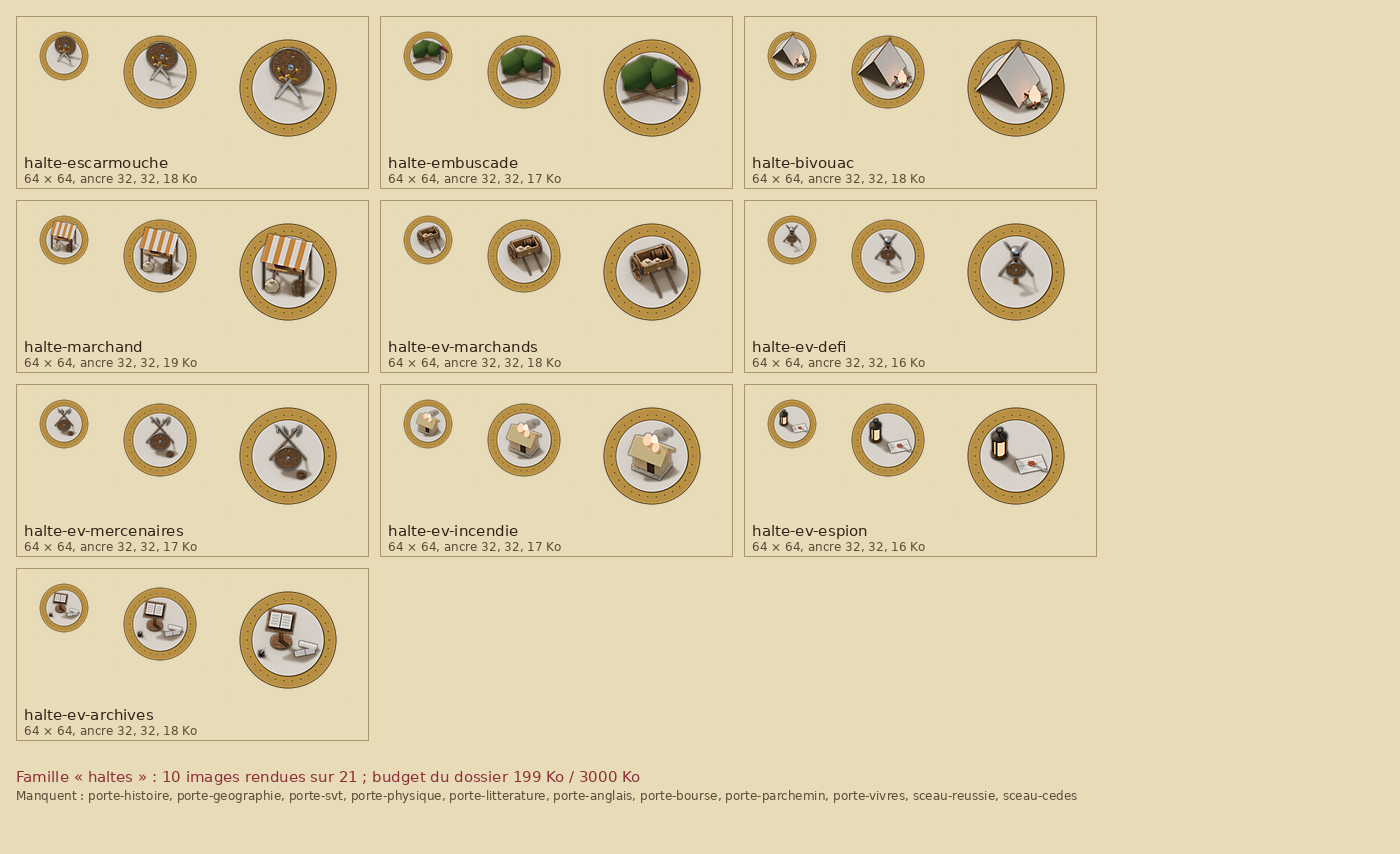
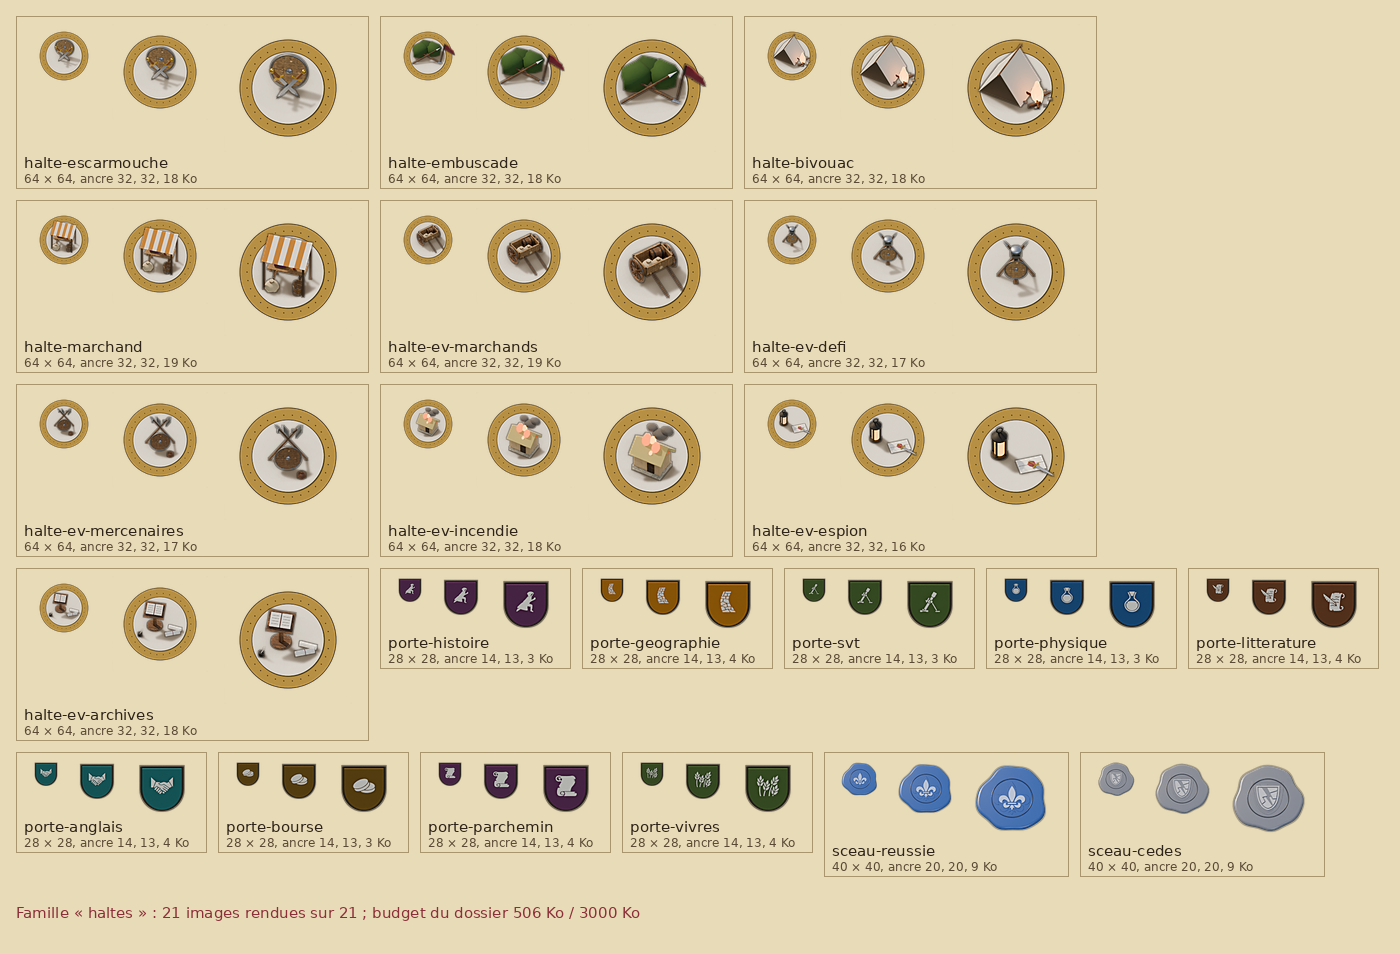
Point d'étape : travaux interrompus par la limite de crédits (rendus 3D, audits de questions)
Claude-Session: https://claude.ai/code/session_013imxrBtnjcaCcqsphPahqh

diff --git a/jeu/assets/images/expedition/images.js b/jeu/assets/images/expedition/images.js
@@ -7,6 +7,10 @@
 window.JEU = window.JEU || {};
 JEU.imagesExpedition = {
   "annee-fond": {"f": "assets/images/expedition/annee-fond.jpg", "w": 1000, "h": 104, "ax": 0, "ay": 0},
+  "cadre-page": {"f": "assets/images/expedition/cadre-page.png", "w": 240, "h": 240, "ax": 0, "ay": 0, "coupe": 60},
+  "carte-expedition": {"f": "assets/images/expedition/carte-expedition.jpg", "w": 320, "h": 190, "ax": 0, "ay": 0},
+  "compagnie-sac-plein": {"f": "assets/images/expedition/compagnie-sac-plein.png", "w": 24, "h": 28, "ax": 12, "ay": 26},
+  "compagnie-sac-vide": {"f": "assets/images/expedition/compagnie-sac-vide.png", "w": 24, "h": 28, "ax": 12, "ay": 26},
   "halte-bivouac": {"f": "assets/images/expedition/halte-bivouac.png", "w": 64, "h": 64, "ax": 32, "ay": 32},
   "halte-brume": {"f": "assets/images/expedition/halte-brume.png", "w": 64, "h": 64, "ax": 32, "ay": 32},
   "halte-embuscade": {"f": "assets/images/expedition/halte-embuscade.png", "w": 64, "h": 64, "ax": 32, "ay": 32},
@@ -18,5 +22,16 @@ JEU.imagesExpedition = {
   "halte-ev-marchands": {"f": "assets/images/expedition/halte-ev-marchands.png", "w": 64, "h": 64, "ax": 32, "ay": 32},
   "halte-ev-mercenaires": {"f": "assets/images/expedition/halte-ev-mercenaires.png", "w": 64, "h": 64, "ax": 32, "ay": 32},
   "halte-marchand": {"f": "assets/images/expedition/halte-marchand.png", "w": 64, "h": 64, "ax": 32, "ay": 32},
-  "route-fond": {"f": "assets/images/expedition/route-fond.jpg", "w": 1000, "h": 320, "ax": 0, "ay": 0}
+  "porte-anglais": {"f": "assets/images/expedition/porte-anglais.png", "w": 28, "h": 28, "ax": 14, "ay": 13},
+  "porte-bourse": {"f": "assets/images/expedition/porte-bourse.png", "w": 28, "h": 28, "ax": 14, "ay": 13},
+  "porte-geographie": {"f": "assets/images/expedition/porte-geographie.png", "w": 28, "h": 28, "ax": 14, "ay": 13},
+  "porte-histoire": {"f": "assets/images/expedition/porte-histoire.png", "w": 28, "h": 28, "ax": 14, "ay": 13},
+  "porte-litterature": {"f": "assets/images/expedition/porte-litterature.png", "w": 28, "h": 28, "ax": 14, "ay": 13},
+  "porte-parchemin": {"f": "assets/images/expedition/porte-parchemin.png", "w": 28, "h": 28, "ax": 14, "ay": 13},
+  "porte-physique": {"f": "assets/images/expedition/porte-physique.png", "w": 28, "h": 28, "ax": 14, "ay": 13},
+  "porte-svt": {"f": "assets/images/expedition/porte-svt.png", "w": 28, "h": 28, "ax": 14, "ay": 13},
+  "porte-vivres": {"f": "assets/images/expedition/porte-vivres.png", "w": 28, "h": 28, "ax": 14, "ay": 13},
+  "route-fond": {"f": "assets/images/expedition/route-fond.jpg", "w": 1000, "h": 320, "ax": 0, "ay": 0},
+  "sceau-cedes": {"f": "assets/images/expedition/sceau-cedes.png", "w": 40, "h": 40, "ax": 20, "ay": 20},
+  "sceau-reussie": {"f": "assets/images/expedition/sceau-reussie.png", "w": 40, "h": 40, "ax": 20, "ay": 20}
 };

diff --git a/atelier/outils/rendu-3d/expedition_fonds.py b/atelier/outils/rendu-3d/expedition_fonds.py
@@ -17,7 +17,8 @@ Quatre images, rendues avec le module commun (même soleil du nord-ouest, mêmes
     charrette à l'arrêt, des houppiers ; vue de trois quarts à 40° comme les lieux de la carte, pas de ciel, aucun
     personnage.
 Lancer : cd /home/user/Test && python3 atelier/outils/rendu-3d/expedition_fonds.py [route|annee|cadre|carte|planche]
-  [--essai] (rendus réduits dans le cache, rien d'écrit dans jeu/).
+  [--essai] (rendus réduits dans le cache, rien d'écrit dans jeu/) [--sans-rendu] (reprend les rendus bruts du cache
+  pour refaire seulement le post-traitement et l'enregistrement).
 La planche atelier/captures/planche-expedition-fonds.png pose sur chaque fond une maquette de ce que l'écran dessine
 dessus (lettrines, chemins, médaillons, cases, fenêtre à cadre) : on la regarde avant de livrer.
 """
@@ -39,6 +40,7 @@ from PIL import Image, ImageDraw, ImageFilter  # noqa: E402
 FAMILLE = "fonds"
 IDS = ("route-fond", "annee-fond", "cadre-page", "carte-expedition")
 ESSAI = False
+SANS_RENDU = False           # --sans-rendu : reprend les rendus bruts du cache (_rendu/) pour refaire le post-traitement
 
 # Feuille de route : 100 × 32 m vus de dessus à 20 px/m. Le rendu (soleil, ciel, AgX) d'un parchemin clair retombe vers
 # #d1c8bc, gris et sombre à côté du parchemin du jeu, et l'exposition n'y change rien (AgX compresse les hautes lumières :
@@ -79,8 +81,20 @@ def feuille(nom, largeur, hauteur, mat, amplitude=ROUTE_ONDULATION, echelle_m=RO
     return C.objet_maillage(nom, bm, mat, lisse=True)
 
 
+def rendu_cache(nom):
+    """Le rendu brut en cache (atelier/sources-3d/_cache/_rendu/<nom>.png), ou None."""
+    chemin = os.path.join(C.CACHE, "_rendu", nom + ".png")
+    if SANS_RENDU and os.path.exists(chemin):
+        journal("reprise du rendu en cache " + os.path.relpath(chemin, C.RACINE))
+        return Image.open(chemin).convert("RGBA")
+    return None
+
+
 def rendre_feuille_route(W, H, echantillons=48):
     """Rendu RGB de la feuille de route (W × H px), sans patine."""
+    brut = rendu_cache("route-fond")
+    if brut is not None and brut.size == (W, H):
+        return brut.convert("RGB")
     E.scene_dessus(ROUTE_M[0], ROUTE_M[1], W, H, echantillons=echantillons, exposition=-0.1)
     feuille("feuille", ROUTE_M[0], ROUTE_M[1], E.mat_parchemin("parchemin_route", ROUTE_TEINTE, grain=0.6, echelle=6.0))
     return E.rendre_opaque("route-fond")
@@ -140,7 +154,7 @@ def cadre_objets():
     """La feuille de 24 × 24 m et son cadre : filet d'encre, bande d'or bombée (0,5 m), filet d'encre, le milieu de la
     bande à 3 m du bord ; une perle d'or à chaque angle de la bande."""
     L = CADRE_M
-    objets = [feuille("feuille", L, L, E.mat_parchemin("parchemin_cadre", "#efe3c6", grain=0.3, echelle=5.0),
+    objets = [feuille("feuille", L, L, E.mat_parchemin("parchemin_cadre", "#efe3c6", grain=0.45, echelle=5.0),
                       amplitude=0.03, echelle_m=4.0, graine=23)]
     encre, or_ = E.mat_encre("encre_cadre"), E.mat_or("or_cadre", "#c8942c", rugosite=0.4, metal=0.8)
     r = CADRE_RETRAIT
@@ -198,6 +212,21 @@ def recaler_hors_cadre(img, cible, contraste=1.15):
     return Image.fromarray(np.clip(a * (c / np.maximum(moy, 1.0)), 0, 246).astype(np.uint8))
 
 
+def palette_coins(img, couleurs=255):
+    """PNG à palette (256 couleurs par coupe médiane, tramé) avec un index réservé aux coins transparents : la mise à
+    256 couleurs du module commun (octree) aplatit le dégradé des bords du cadre en paliers ; la coupe médiane le garde.
+    Le fichier passe sous le seuil de quantification de sauver, qui l'écrit tel quel."""
+    rgb, a = img.convert("RGB"), np.array(img.split()[3])
+    p = rgb.quantize(couleurs, method=Image.Quantize.MEDIANCUT, dither=Image.Dither.FLOYDSTEINBERG)
+    pal = (p.getpalette() + [0] * 768)[:765] + [0, 0, 0]
+    idx = np.array(p, dtype=np.uint8)
+    idx[a < 128] = 255
+    q = Image.fromarray(idx, "P")
+    q.putpalette(pal)
+    q.info["transparency"] = bytes([255] * 255 + [0])
+    return q
+
+
 def masque_coins(taille, rayon):
     """Alpha d'une feuille aux coins arrondis (rayon en px), bord net."""
     m = Image.new("L", (taille, taille), 0)
@@ -209,9 +238,11 @@ def cadre_page():
     """cadre-page.png : la feuille rendue de dessus à 2 ×, réduite, patinée, le centre rendu raccordable, coins arrondis."""
     px = 480
     surech = 1 if ESSAI else 2
-    E.scene_dessus(CADRE_M, CADRE_M, px * surech, px * surech, echantillons=32 if ESSAI else 64, exposition=-0.1, appoint=0.5)
-    cadre_objets()
-    img = C.rendre(os.path.join(C.CACHE, "_rendu", "cadre-page.png"))
+    img = rendu_cache("cadre-page")
+    if img is None or img.size != (px * surech, px * surech):
+        E.scene_dessus(CADRE_M, CADRE_M, px * surech, px * surech, echantillons=32 if ESSAI else 64, exposition=-0.1, appoint=0.5)
+        cadre_objets()
+        img = C.rendre(os.path.join(C.CACHE, "_rendu", "cadre-page.png"))
     img = C._reduire(img, surech).convert("RGB")
     img = img.filter(ImageFilter.UnsharpMask(radius=1.0, percent=35, threshold=1))
     img = recaler_hors_cadre(img, "#f2e8cf")
@@ -225,7 +256,7 @@ def cadre_page():
     if ESSAI:
         img.save(os.path.join(C.CACHE, "essai-cadre-page.png"))
         return
-    E.sauver("cadre-page", img, extra={"coupe": CADRE_COUPE})
+    E.sauver("cadre-page", palette_coins(img), extra={"coupe": CADRE_COUPE})
 
 
 # ---------------------------------------------------------------- la carte « Partir en expédition »
@@ -363,6 +394,20 @@ def carte_expedition():
     """carte-expedition.jpg : la route vers le bourg, de trois quarts à 40°, sans ciel."""
     w, h, ppm, ancre_bas = CARTE
     surech = 1 if ESSAI else E.SURECH
+    img = rendu_cache("carte-expedition")
+    if img is None or img.size != (w * C.ECHELLE * surech, h * C.ECHELLE * surech):
+        img = rendre_carte(w, h, ppm, ancre_bas, surech)
+    img = C._reduire(img, surech).convert("RGB")
+    img = img.filter(ImageFilter.UnsharpMask(radius=1.2, percent=45, threshold=1))
+    C.controle_blancs(img, "carte-expedition")
+    if ESSAI:
+        img.save(os.path.join(C.CACHE, "essai-carte-expedition.jpg"), quality=86)
+        return
+    E.sauver("carte-expedition", img, max_ko=160)
+
+
+def rendre_carte(w, h, ppm, ancre_bas, surech):
+    """La scène de la carte : sol, bourg, bornes, bannière, charrette, arbres ; rendu brut RGBA (surech ×)."""
     E.scene_scene(w, h, ppm, ancre_bas, surech=surech, sol=False)
     k = C.ECHELLE * surech
     C.reglages_rendu(w * k, h * k, echantillons=32 if ESSAI else 48, transparent=False, exposition=-0.1)
@@ -381,14 +426,7 @@ def carte_expedition():
     for nom, loc, r in (("arbre1", (-13.0, 6.5, 0), 3.2), ("arbre2", (12.5, 11.0, 0), 2.8), ("arbre3", (-9.5, 24.0, 0), 2.6),
                         ("arbre4", (16.0, 30.0, 0), 2.4), ("arbre5", (-18.0, 36.0, 0), 2.9)):
         arbre(nom, feuillus, loc, r, tronc)
-    img = C.rendre(os.path.join(C.CACHE, "_rendu", "carte-expedition.png"))
-    img = C._reduire(img, surech).convert("RGB")
-    img = img.filter(ImageFilter.UnsharpMask(radius=1.2, percent=45, threshold=1))
-    C.controle_blancs(img, "carte-expedition")
-    if ESSAI:
-        img.save(os.path.join(C.CACHE, "essai-carte-expedition.jpg"), quality=86)
-        return
-    E.sauver("carte-expedition", img, max_ko=160)
+    return C.rendre(os.path.join(C.CACHE, "_rendu", "carte-expedition.png"))
 
 
 # ---------------------------------------------------------------- planche de contrôle
@@ -410,7 +448,7 @@ def _pointille(d, a, b, pas=9, trait=2, fill=ENCRE, largeur=2):
 def maquette_route(fond):
     """Pose sur le fond (à l'échelle logique, 1000 × 320) ce que carteSVG dessine : lettrines, dates, filets, chemins,
     médaillons (dont halte-brume rendu), gardien, bannière « Cette semaine », voile de brume."""
-    im = fond.convert("RGBA")
+    im = fond.convert("RGB")
     d = ImageDraw.Draw(im, "RGBA")
     gras, texte, petit = E._police(32), E._police(15), E._police(13)
     BANDE = 320
@@ -458,8 +496,7 @@ def maquette_route(fond):
         bx = 20 + i * BANDE
         for x, y in ((bx + 80, 130), (bx + 80, 230), (bx + 170, 180), (bx + 260, 130), (bx + 260, 230)):
             if brume:
-                im.alpha_composite(brume, (x - 32, y - 32))
-                d = ImageDraw.Draw(im, "RGBA")
+                im.paste(brume, (x - 32, y - 32), brume)
             else:
                 d.ellipse((x - 24, y - 24, x + 24, y + 24), fill=OR, outline=ENCRE, width=2)
     # bannière « Cette semaine » de la troisième bande
@@ -467,12 +504,12 @@ def maquette_route(fond):
     d.line((bx, 8, bx, 46), fill=ENCRE, width=2)
     d.polygon(((bx - 2, 10), (bx - 136, 10), (bx - 128, 19), (bx - 136, 28), (bx - 2, 28)), fill=RUBRIQUE, outline=ENCRE)
     d.text((bx - 126, 11), "Cette semaine", fill=(255, 243, 208), font=texte)
-    return im
+    return im.convert("RGBA")
 
 
 def maquette_annee(fond):
     """Les cases du parchemin de l'année (27 × 34, à partir de x = 20), la frontière, le repère du relais."""
-    im = fond.convert("RGBA")
+    im = fond.convert("RGB")
     d = ImageDraw.Draw(im, "RGBA")
     police = E._police(15)
     for i in range(34):
@@ -488,7 +525,7 @@ def maquette_annee(fond):
     d.text((x + 6, 84), "Frontière", fill=RUBRIQUE, font=police)
     d.polygon(((x - 15, 16), (x - 130, 16), (x - 122, 24), (x - 130, 32), (x - 15, 32)), fill=RUBRIQUE, outline=ENCRE)
     d.text((x - 122, 17), "Cette semaine", fill=(255, 243, 208), font=police)
-    return im
+    return im.convert("RGBA")
 
 
 def maquette_fenetre(cadre, largeur, hauteur, coupe_px=120, bord=60):
@@ -575,7 +612,7 @@ def planche_fonds():
         cx, cy = e["w"] // 2, e["h"] + 2
         d.ellipse((cx - 32, cy - 32, cx + 32, cy + 32), fill=(61, 33, 22), outline=OR, width=3)
         d.rectangle((0, 0, e["w"] - 1, e["h"] - 1), outline=ENCRE, width=2)
-        cellules.append(("carte-expedition, à l'échelle logique (320 × 190) avec le médaillon de la carte", carte, legende("carte-expedition", e)))
+        cellules.append(("carte-expedition à 320 × 190, avec le médaillon", carte, legende("carte-expedition", e)))
         cellules.append(("carte-expedition, le fichier (640 × 380)", im, ""))
     absents = [k for k in IDS if k not in man or not os.path.exists(os.path.join(C.RACINE, "jeu", man[k]["f"]))]
     # mise en page : une cellule par ligne, deux côte à côte quand elles tiennent
@@ -605,8 +642,9 @@ def planche_fonds():
 
 
 def main(args):
-    global ESSAI
+    global ESSAI, SANS_RENDU
     ESSAI = "--essai" in args
+    SANS_RENDU = "--sans-rendu" in args
     quoi = [a for a in args if not a.startswith("--")] or ["tout"]
     tout = "tout" in quoi
     if tout or "route" in quoi or "annee" in quoi or "route-fond" in quoi or "annee-fond" in quoi:
@@ -618,6 +656,8 @@ def main(args):
     if not ESSAI:
         planche_fonds()
         E.verifier_budget()
+    elif "planche" in quoi:
+        planche_fonds()
 
 
 if __name__ == "__main__":

diff --git a/atelier/outils/rendu-3d/expedition_haltes.py b/atelier/outils/rendu-3d/expedition_haltes.py
@@ -10,6 +10,8 @@ Images (jeu/assets/images/expedition/, manifeste images.js, cahier atelier/conce
   - deux sceaux de 40 unités (80 px) : sceau-reussie (cire bleue de France au lys), sceau-cedes (plomb à l'écu brisé).
 Lancer : cd /home/user/Test && python3 atelier/outils/rendu-3d/expedition_haltes.py [noms d'images | medaillons | portes | sceaux]
 Sans argument : tout, puis la planche atelier/captures/planche-expedition-haltes.png et la vérification du budget.
+Les cinq icônes de la compagnie (compagnie-sac-plein, -sac-vide, -or, -plan, -espion ; famille « faveurs » du catalogue)
+sont rendues ici seulement quand le manifeste ne les a pas encore, ou sur demande (« compagnie »).
 --loupe : planche de lisibilité (chaque médaillon à 56 px, et le même agrandi 3 ×) atelier/captures/planche-expedition-haltes-56.png.
 """
 import math
@@ -25,6 +27,7 @@ import places as P  # noqa: E402
 import bmesh  # noqa: E402
 import bpy  # noqa: E402
 from mathutils import Vector  # noqa: E402
+import numpy as np  # noqa: E402
 from PIL import Image, ImageDraw  # noqa: E402
 
 ECHANTILLONS = 48            # médaillons (cahier § 4) ; écussons 32
@@ -516,7 +519,9 @@ MEDAILLONS = {
 }
 
 # ---------------------------------------------------------------- écussons des portes
-# écusson du SVG (ecussonPorte) : 22 × 24 unités, centre à (x, y + 1) ; l'image fait 28 × 28, ancre (14, 13)
+# écusson du SVG (ecussonPorte) : 22 × 24 unités, centre à (x, y + 1) ; l'image fait 28 × 28, son contenu est centré
+# (centrer) et l'ancre du manifeste vaut (14, 13) : le centre de l'image tombe sur le centre de l'écu du SVG, que l'image couvre.
+# Vue presque de face (30°, écu penché de 10°) : vu de plus haut, l'écu se tasse (à 55°, 19 unités de haut au lieu de 24).
 PORTES = {
     "porte-histoire": (E.MATIERES["histoire"], "chroniqueur"),
     "porte-geographie": (E.MATIERES["geographie"], "routes"),
@@ -528,22 +533,37 @@ PORTES = {
     "porte-parchemin": (E.PORTES["parchemin"], "parchemins"),
     "porte-vivres": (E.PORTES["vivres"], "recolte"),
 }
-PORTE_LARG, PORTE_HAUT, PORTE_PENCHE = 1.85, 2.1, 14.0
-PORTE_ANCRE = (14.0, 25.4)          # pied de l'écusson dans l'image (unités) : l'écu est centré sur la toile
+PORTE_LARG, PORTE_HAUT, PORTE_PENCHE, PORTE_INCL = 1.8, 2.0, 10.0, 30
+PORTE_ANCRE = (14.0, 25.0)          # pied de l'écusson dans l'image (unités), avant centrage
 PORTE_AY = 13                       # ancre du manifeste : le centre de l'image tombe sur (x, y + 1), le centre de l'écu du SVG
+
+
+def centrer(img, seuil=8):
+    """Recentre le contenu (boîte de l'alpha) au milieu de l'image, au pixel près, puis recontrôle les bords."""
+    a = np.array(img)[..., 3]
+    ys, xs = np.nonzero(a > seuil)
+    if not len(xs):
+        return img
+    dx = int(round((img.size[0] - 1) / 2.0 - (xs.min() + xs.max()) / 2.0))
+    dy = int(round((img.size[1] - 1) / 2.0 - (ys.min() + ys.max()) / 2.0))
+    if dx == 0 and dy == 0:
+        return img
+    out = Image.new("RGBA", img.size, (0, 0, 0, 0))
+    out.paste(img, (dx, dy))
+    return out
 
 
 def porte(nom):
     teinte, icone = PORTES[nom]
-    E.scene_vignette(E.PORTE, inclinaison=55, px_par_m=11, ancre=PORTE_ANCRE, rayon_sol=None)
+    E.scene_vignette(E.PORTE, inclinaison=PORTE_INCL, px_par_m=11, ancre=PORTE_ANCRE, rayon_sol=None)
     objets = E.ecusson("porte", PORTE_LARG, PORTE_HAUT, teinte, epaisseur=0.09, penche=PORTE_PENCHE, lisere=E.ENCRE)
     objets[1].location.z -= 0.04 * PORTE_HAUT           # liseré d'encre d'épaisseur égale en haut et sur les flancs
     a = math.radians(PORTE_PENCHE)
     zc, av = 0.62, 0.07                                  # pied de l'emblème sur l'écu (hauteur le long de l'écu), avancée
     loc = (0.0, zc * math.sin(a) - av * math.cos(a), zc * math.cos(a) + av * math.sin(a))
     objets.append(E.plaque_icone("embleme", icone, 1.15, "#fff8e4", epaisseur=0.03, loc=loc, penche=PORTE_PENCHE))
-    img = E.rendre_vignette(nom, objets, E.PORTE, echantillons=32, contour=0.5, ombre=False)
-    return img
+    img = centrer(E.rendre_vignette(nom, objets, E.PORTE, echantillons=32, contour=0.5, ombre=False))
+    return E.controler(img, nom)
 
 
 # ---------------------------------------------------------------- sceaux
@@ -555,6 +575,30 @@ def sceau(nom):
     E.scene_vignette(E.SCEAU, inclinaison=70, rayon_sol=None)
     objets = E.sceau_cire("sceau", rayon=E.D_SCEAU / 2.0 / E.PX_PAR_M, teintes=teintes, icone=icone, graine=5 if icone == "lys" else 9)
     return E.rendre_vignette(nom, objets, E.SCEAU, echantillons=ECHANTILLONS, contour=0.3, ombre=False)
+
+
+# ---------------------------------------------------------------- icônes de la compagnie (catalogue : famille « faveurs »)
+# Le cahier les range dans expedition_faveurs.py, « facultatif, en dernier » ; ce script les rend seulement si le manifeste
+# ne les a pas encore (ou si on les demande par leur nom) : sacs 24 × 28, ancre au pied (12, 26) ; or, plan, espion 24 × 24.
+def compagnie(nom):
+    w, h = E.CATALOGUE[nom][1], E.CATALOGUE[nom][2]
+    sac = nom.startswith("compagnie-sac")
+    E.scene_vignette((w, h), inclinaison=45, px_par_m=11 if sac else 12, ancre=(w / 2.0, h / 2.0), rayon_sol=1.6)
+    if nom == "compagnie-sac-plein":
+        objets = E.sac("sac", 0.55, 1.7, mat=E.mat_toile("jute", E.JUTE), lacet=15)
+    elif nom == "compagnie-sac-vide":
+        objets = E.sac("sac", 0.55, 1.7, mat=E.mat_toile("toile", E.FOND), lacet=15, plein=False)
+    elif nom == "compagnie-or":
+        objets = E.pile_pieces("or", 7, 0.5, 0.11, graine=3)
+    elif nom == "compagnie-plan":
+        objets = E.rouleau("plan", 1.4, 0.21, lacet=-20, ruban=E.RUBRIQUE)
+    else:
+        objets = lanterne("lanterne", (0, 0, 0), hauteur=1.3, rayon=0.36, lacet=25, ouverte=False)
+    img = E.rendre_vignette(nom, objets, (w, h), echantillons=ECHANTILLONS, contour=0.5, ombre=True, force_ombre=0.4)
+    return E.controler(centrer(img), nom)      # contenu centré (ombre comprise) ; l'ancre du manifeste vient du catalogue
+
+
+COMPAGNIE = ("compagnie-sac-plein", "compagnie-sac-vide", "compagnie-or", "compagnie-plan", "compagnie-espion")
 
 
 # ---------------------------------------------------------------- planche de lisibilité à 56 px
@@ -591,7 +635,7 @@ def loupe():
 # ---------------------------------------------------------------- lancement
 def main(args):
     quoi = [a for a in args if not a.startswith("--")]
-    tout = not quoi
+    tout = not quoi and not ("--loupe" in args or "--planche" in args)     # --loupe ou --planche seuls : pas de rendu
     for nom, f in MEDAILLONS.items():
         if tout or "medaillons" in quoi or nom in quoi or nom.replace("halte-", "") in quoi:
             E.sauver(nom, f())
@@ -601,11 +645,15 @@ def main(args):
     for nom in SCEAUX:
         if tout or "sceaux" in quoi or nom in quoi:
             E.sauver(nom, sceau(nom))
+    for nom in COMPAGNIE:
+        if nom in quoi or "compagnie" in quoi or (tout and nom in E.manquants("faveurs")):
+            E.sauver(nom, compagnie(nom))
     if "--sans-planche" not in args:
         E.planche("haltes")
     if "--loupe" in args or tout:
         loupe()
-    E.verifier_budget()
+    if tout or quoi:
+        E.verifier_budget()
 
 
 if __name__ == "__main__":
